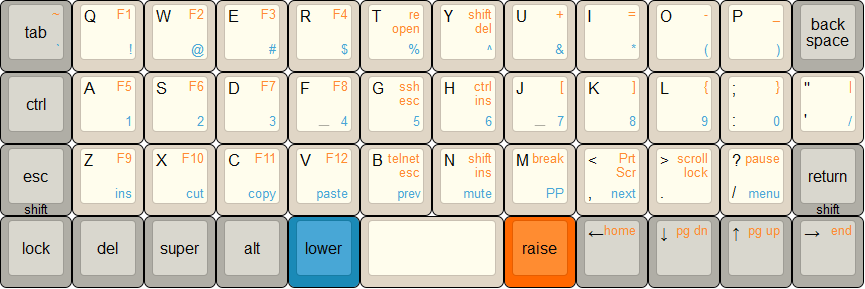
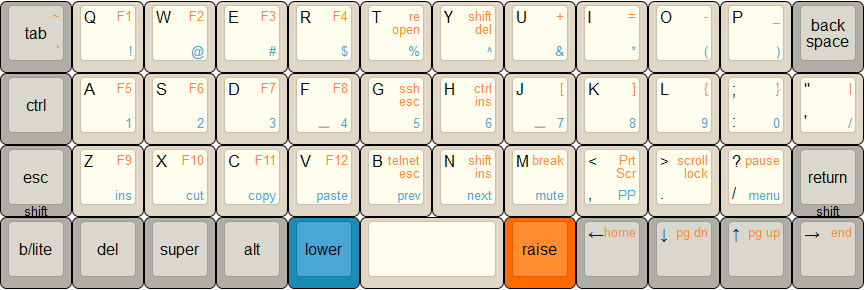
All files updated;
- keymap file renamed to include c extension.
- README updated to include intended use and layout decisions.
- Image updated to show updated layout changes.

diff --git a/keymap.c b/keymap.c
@@ -5,7 +5,7 @@ const uint16_t PROGMEM keymaps[][MATRIX_ROWS][MATRIX_COLS] = {
   {KC_TAB,  KC_Q,   KC_W,    KC_E,    KC_R,    KC_T,    KC_Y,    KC_U,    KC_I,    KC_O,    KC_P,    KC_BSPC},
   {KC_LCTL, KC_A,   KC_S,    KC_D,    KC_F,    KC_G,    KC_H,    KC_J,    KC_K,    KC_L,    KC_SCLN, KC_QUOT},
   {F(10),   KC_Z,   KC_X,    KC_C,    KC_V,    KC_B,    KC_N,    KC_M,    KC_COMM, KC_DOT,  KC_SLSH, F(11)},
-  {BL_STEP, KC_DEL, KC_LGUI, KC_LALT, FUNC(2), KC_SPC,  KC_SPC,  FUNC(1), KC_LEFT, KC_DOWN, KC_UP,   KC_RGHT}
+  {BACKLIT, KC_DEL, KC_LGUI, KC_LALT, FUNC(2), KC_SPC,  KC_SPC,  FUNC(1), KC_LEFT, KC_DOWN, KC_UP,   KC_RGHT}
 },
 [1] = { /* Term2501 Colemak */
   {KC_TAB,  KC_Q,   KC_W,    KC_F,    KC_P,    KC_G,    KC_J,    KC_L,    KC_U,    KC_Y,    KC_SCLN, KC_BSPC},

diff --git a/README.md b/README.md
@@ -1,7 +1,18 @@
 # Personal Planck keymap
 
-This keymap is for a 40% ortholinear keyboard call the Planck.
+This is my keymap for a 40% ortholinear keyboard call the Planck. It's layout is designed with a network engineering role in mind.
+
+- UNIX l_ctrl location
+- Cursor movement keys on base layer
+- Numerals on home row. It's easy to transition if these are on the top row.
+- Pipe "|" must be on base layer. (actually thinking of moving this under J.)
+- Tab must be in the first column in either row 1 or 3. Preference is row 1.
+- Shift keys are long hold, shared with escape and return.
+- Mods; ctrl, shift, super and alt accessible on all layers for any application or system shortcuts.
+- 4*3 grid of function keys means F5 is under the home row.
+- Media keys moved up so arrow keys could be used when entering IP address, if this wasn't needed I think having them with arrows is more logical but it was a functional move.
+
+![planck](planck.png)
 
 You can view the build log [here](http://imgur.com/a/YUMNN).
 
-![planck](planck.png)
